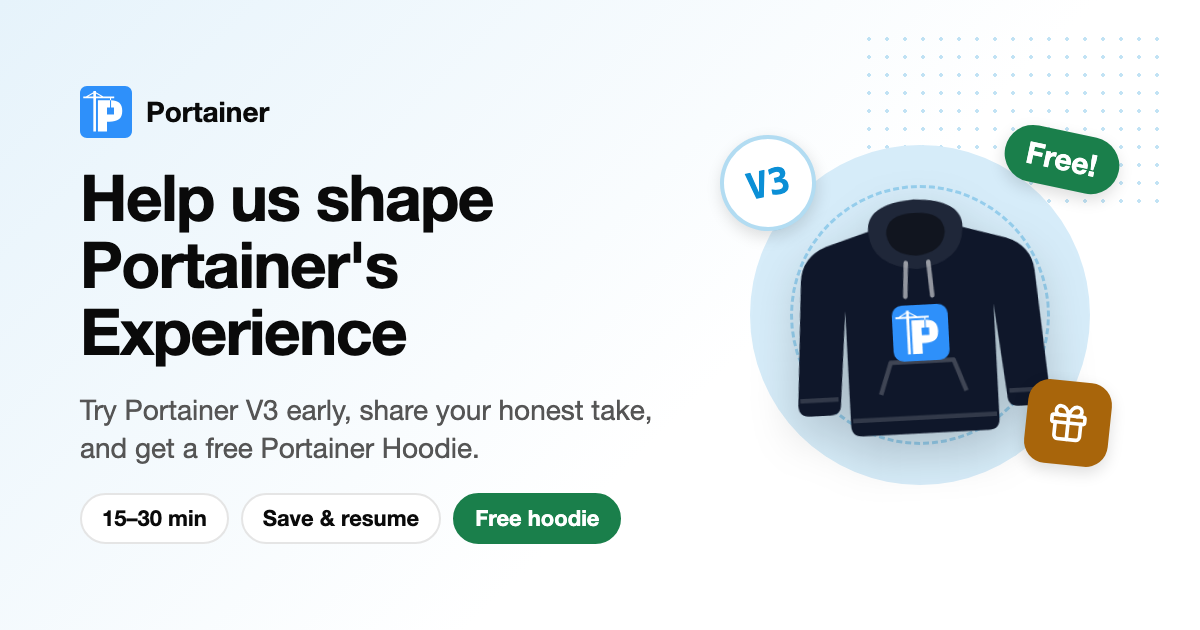
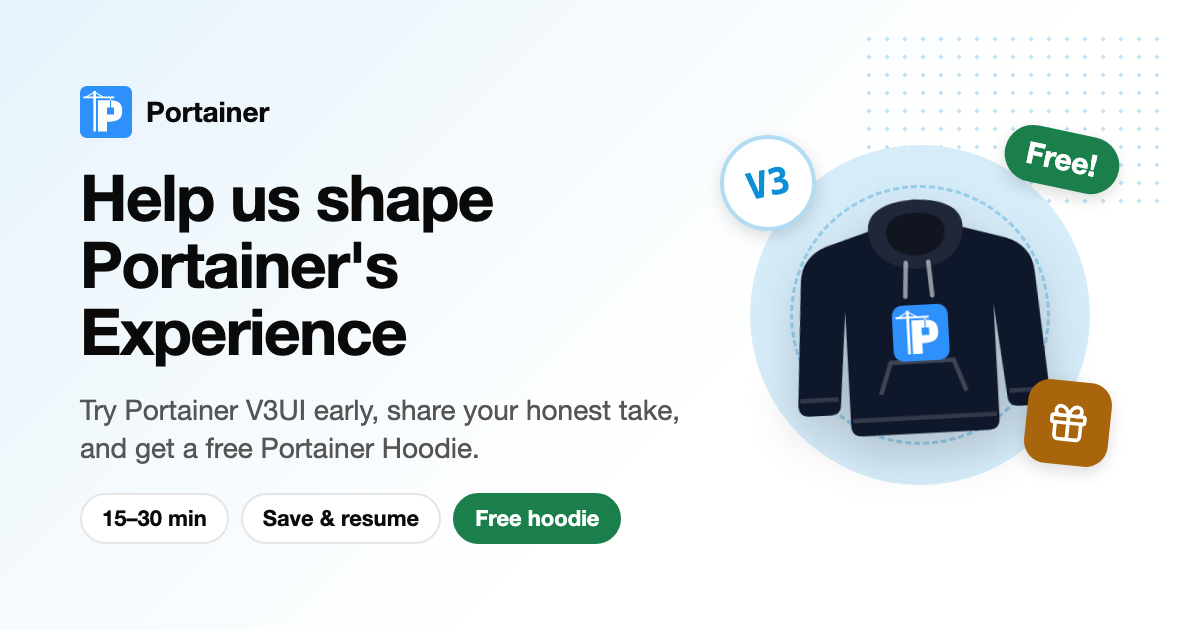
concept-test: Portainer new UI naming, 2–3 words for both groups, one-line titles

Changed region(s): [[0.2158, 0.6333, 0.555, 0.6937]]

diff --git a/local/portainer-run-applications/concept-testing-app/src/src/components/concept-test/steps.tsx b/local/portainer-run-applications/concept-testing-app/src/src/components/concept-test/steps.tsx
@@ -12,7 +12,7 @@ import { Input } from "@/components/ui/input";
 import { Select, SelectContent, SelectItem, SelectTrigger, SelectValue } from "@/components/ui/select";
 import { Textarea } from "@/components/ui/textarea";
 import {
-  FOLLOW_UP, FREQUENCY, NEG, NEG_MIN, PICK_MAX, PICK_MIN, POS, PREFERENCES, ROLE_OTHER, ROLES, SIZES, STEPS, STEP_COUNT, TASKS, TOOL_LEN, TOOLS_MAX, USAGE,
+  FOLLOW_UP, FREQUENCY, NEG, PICK_MAX, PICK_MIN, POS, PREFERENCES, ROLE_OTHER, ROLES, SIZES, STEPS, STEP_COUNT, TASKS, TOOL_LEN, TOOLS_MAX, USAGE,
   type Answers, type Errors, type State, type Swag, type WordKey,
 } from "@/lib/survey";
 import { cn } from "@/lib/utils";
@@ -44,7 +44,7 @@ function Head({ step, title, eyebrow, children }: { step?: number; title: ReactN
             {mins > 0 && <span className="inline-flex items-center gap-1 rounded-full bg-card px-2.5 py-1 text-muted-foreground ring-1 ring-border"><Clock className="size-3.5" />About {mins} min</span>}
             {eyebrow}
           </div>
-          <h1 className="text-[28px] leading-tight font-semibold tracking-tight text-balance sm:text-[34px]">{title}</h1>
+          <h1 className="text-[28px] leading-tight font-semibold tracking-tight text-balance sm:text-[30px]">{title}</h1>
           {children && <p className="max-w-[56ch] text-[15px] text-muted-foreground">{children}</p>}
         </div>
         <StepArt step={step === undefined ? STEP_COUNT : step - 1} />
@@ -60,7 +60,7 @@ const Cheer = ({ children }: { children: ReactNode }) => (
 
 const ic = "size-5";
 const FREQUENCY_ICONS = { Daily: <Sun className={ic} />, Weekly: <CalendarDays className={ic} />, Monthly: <CalendarRange className={ic} />, Rarely: <Snail className={ic} /> };
-const PREFERENCE_ICONS = { "Current Portainer": <History className={ic} />, "Portainer V3": <Sparkles className={ic} />, "No preference": <ScaleIcon className={ic} /> };
+const PREFERENCE_ICONS = { "Current Portainer UI": <History className={ic} />, "Portainer new UI": <Sparkles className={ic} />, "No preference": <ScaleIcon className={ic} /> };
 const FOLLOW_UP_ICONS = { "Yes, happy to chat": <MessageCircleHeart className={ic} />, "No thanks": <Hand className={ic} /> };
 // The hoodie grows with the size.
 const SIZE_ICONS = Object.fromEntries(SIZES.map((x, i) => [x, <Hoodie key={x} style={{ width: 14 + i * 2, height: 14 + i * 2 }} />]));
@@ -104,7 +104,7 @@ export function StepCurrent(p: StepProps) {
   const focusOther = useRef(false);
   return (
     <>
-      <Head step={1} title="How does Portainer feel today?" eyebrow={<Cheer>Nice to meet you!</Cheer>}>
+      <Head step={1} title="How does the current Portainer UI feel today?" eyebrow={<Cheer>Nice to meet you!</Cheer>}>
         Let&apos;s start with the Portainer you use today. There are no wrong answers, just your honest take.
       </Head>
       <Panel>
@@ -188,9 +188,9 @@ export function StepWords({ which, ...p }: StepProps & { which: WordKey }) {
             <span className="font-mono">{picked.length}/{PICK_MAX} picked</span>
           </span>
         </div>
-        {kind === "neg" && (
-          <p className="-mt-1 text-[13px] text-muted-foreground">Pick at least {NEG_MIN}. Every tool has rough edges, and knowing yours helps us the most.</p>
-        )}
+        <p className="-mt-1 text-[13px] text-muted-foreground">
+          Pick at least {PICK_MIN}. {kind === "pos" ? "Think about what works well for you, big or small." : "Every tool has rough edges, and knowing yours helps us the most."}
+        </p>
         <div role="group" aria-labelledby={`${key}-label`} className="flex flex-wrap gap-2.5">
           {list.map((x) => {
             const on = picked.includes(x);
@@ -204,8 +204,8 @@ export function StepWords({ which, ...p }: StepProps & { which: WordKey }) {
   const all = [...w.pos.map((x) => ["pos", x] as const), ...w.neg.map((x) => ["neg", x] as const)];
   return (
     <>
-      <Head step={before ? 2 : 4} title={before ? "Describe the current Portainer UI" : "Now describe the V3 UI"} eyebrow={<Cheer>{before ? "Quick one" : "Before vs after"}</Cheer>}>
-        Pick {PICK_MIN}–{PICK_MAX} positive words and {NEG_MIN}–{PICK_MAX} negative words that best describe {before ? "your experience with Portainer today" : "what you saw in the V3 demo"}. Then tell us why you picked each one.
+      <Head step={before ? 2 : 4} title={before ? "Describe the current Portainer UI" : "Now describe the new UI"} eyebrow={<Cheer>{before ? "Quick one" : "Before vs after"}</Cheer>}>
+        Pick {PICK_MIN}–{PICK_MAX} positive words and {PICK_MIN}–{PICK_MAX} negative words that best describe {before ? "your experience with Portainer today" : "what you saw in the V3 demo"}. Then tell us why you picked each one.
       </Head>
       <Panel>{group("pos", POS)}{group("neg", NEG)}</Panel>
       {all.length > 0 && (
@@ -240,7 +240,7 @@ export function StepDemo(p: StepProps) {
   const { s, set, errors: e, demoUrl, demoLogin } = p, a = s.a;
   return (
     <>
-      <Head step={3} title="Take Portainer V3 for a spin" eyebrow={<Cheer>The fun part</Cheer>}>
+      <Head step={3} title="Take Portainer new UI for a spin" eyebrow={<Cheer>The fun part</Cheer>}>
         Open the demo, look around, and see how the new UI compares to the Portainer you use today.
       </Head>
       <div data-field="openedDemo" className="flex flex-col gap-2">
@@ -248,7 +248,7 @@ export function StepDemo(p: StepProps) {
           <BrowserArt opened={s.openedDemo} />
           <div className="flex min-w-0 flex-col items-start gap-3">
             <div className="flex min-w-0 flex-col gap-1">
-              <b className="text-lg">Portainer V3 demo<span className="text-neg"> *</span></b>
+              <b className="text-lg">Portainer new UI demo<span className="text-neg"> *</span></b>
               <code className="font-mono text-[12.5px] break-all text-muted-foreground">{demoUrl.replace(/^https?:\/\//, "")}</code>
               {s.openedDemo && <span className="text-[13px] text-pos">Opened. Switch back to that tab any time.</span>}
             </div>
@@ -311,7 +311,7 @@ export function StepFinal(p: StepProps) {
         <Field name="preference" label="Which would you rather use day to day?" required error={e.preference}>
           <Chips name="preference" options={PREFERENCES} icons={PREFERENCE_ICONS} cols="grid-cols-3 sm:grid-cols-3" value={a.preference} invalid={!!e.preference} onChange={(v) => set((d) => { d.a.preference = v; }, true)} />
         </Field>
-        <Field name="nps" label="How likely are you to recommend Portainer V3 to a colleague?" required error={e.nps}>
+        <Field name="nps" label="How likely are you to recommend Portainer V3UI to a colleague?" required error={e.nps}>
           <Scale name="nps" from={0} to={10} value={a.nps} lo="Not at all likely" hi="Extremely likely" invalid={!!e.nps} tone={npsTone}
             onChange={(v) => set((d) => { d.a.nps = v; }, true)} />
           {a.nps !== null && (
@@ -394,7 +394,7 @@ export function StepDone({ s }: StepProps) {
       <div className="relative">
         <Confetti />
         <Head title={`Thank you${first ? `, ${first}` : ""}`} eyebrow={<Badge className="bg-pos text-white dark:text-background">Session complete</Badge>}>
-          Your feedback is in and so is your hoodie request. You&apos;ve helped shape what Portainer V3 becomes. The study closes on 18 December, and we&apos;ll start shipping hoodies after that. Until then, you can go back to any step to review or change an answer.
+          Your feedback is in and so is your hoodie request. You&apos;ve helped shape what Portainer V3UI becomes. The study closes on 18 December, and we&apos;ll start shipping hoodies after that. Until then, you can go back to any step to review or change an answer.
         </Head>
       </div>
       <Panel>

diff --git a/local/portainer-run-applications/concept-testing-app/src/src/lib/survey.ts b/local/portainer-run-applications/concept-testing-app/src/src/lib/survey.ts
@@ -3,9 +3,8 @@
 
 export const POS = ["Intuitive", "Clean", "Efficient", "Fast", "Organized", "Powerful", "Reliable", "Easy to use", "Modern", "Consistent", "Clear", "Flexible", "Polished", "Time-saving", "Trustworthy", "Approachable"];
 export const NEG = ["Cluttered", "Confusing", "Overwhelming", "Slow", "Outdated", "Complex", "Inconsistent", "Frustrating", "Hard to navigate", "Busy", "Rigid", "Tedious", "Hidden", "Too technical", "Fragmented", "Dense"];
-export const PICK_MIN = 1;
+export const PICK_MIN = 2;
 export const PICK_MAX = 3;
-export const NEG_MIN = 2;
 
 export const ROLE_OTHER = "Other (please specify)";
 export const ROLES = [
@@ -30,7 +29,11 @@ export const TASKS = [
   "Sort and filter a table", "Open your account preferences", "Switch between light and dark mode",
   "Move between sections using the sidebar", "Open a details page and its tabs", "Check the status badges and icons",
 ];
-export const PREFERENCES = ["Current Portainer", "Portainer V3", "No preference"];
+export const PREFERENCES = ["Current Portainer UI", "Portainer new UI", "No preference"];
+/** Earlier labels for the same choices, so saved answers still match. */
+const LEGACY_PREFERENCES: Record<string, string> = {
+  "Current Portainer": PREFERENCES[0], "Portainer V3": PREFERENCES[1], "Portainer-Ops V3UI": PREFERENCES[1], "Portainer-Ops new UI": PREFERENCES[1],
+};
 export const FOLLOW_UP = ["Yes, happy to chat", "No thanks"];
 export const SIZES = ["XS", "S", "M", "L", "XL", "2XL", "3XL"];
 export const TOOLS_MAX = 20;
@@ -40,7 +43,7 @@ export const STEPS = [
   { key: "current", title: "Current Portainer", sub: "How it feels today", mins: 3 },
   { key: "wordsBefore", title: "Pick words", sub: "Current UI", mins: 2 },
   { key: "demo", title: "Explore V3", sub: "Open the demo", mins: 10 },
-  { key: "wordsAfter", title: "Pick words", sub: "V3 UI", mins: 2 },
+  { key: "wordsAfter", title: "Pick words", sub: "Portainer UI", mins: 2 },
   { key: "final", title: "Final thoughts", sub: "Anything else", mins: 2 },
   { key: "swag", title: "Claim your hoodie", sub: "Shipping details", mins: 1 },
 ] as const;
@@ -132,7 +135,7 @@ export function sanitize(input: unknown): State {
       wordsBefore: words(a.wordsBefore),
       demoTasks: pick(a.demoTasks, TASKS), demoNotes: str(a.demoNotes),
       wordsAfter: words(a.wordsAfter),
-      preference: oneOf(a.preference, PREFERENCES), nps: intIn(a.nps, 0, 10), finalNotes: str(a.finalNotes), followUp: oneOf(a.followUp, FOLLOW_UP),
+      preference: oneOf(LEGACY_PREFERENCES[String(a.preference)] ?? a.preference, PREFERENCES), nps: intIn(a.nps, 0, 10), finalNotes: str(a.finalNotes), followUp: oneOf(a.followUp, FOLLOW_UP),
       swag: {
         name: str(sw.name, 200), email: str(sw.email, 200), company: str(sw.company, 200), address: str(sw.address, 500),
         city: str(sw.city, 200), postcode: str(sw.postcode, 40), country: str(sw.country, 200), size: oneOf(sw.size, SIZES), consent: sw.consent === true,
@@ -202,8 +205,8 @@ function validCurrent(s: State): Errors {
 /** Positive words are required; negative words are optional (some people have none). */
 function validWords(s: State, which: WordKey): Errors {
   const w = s.a[which], e: Errors = {};
-  if (w.pos.length < PICK_MIN) e[`${which}.pos`] = "Pick at least one positive word.";
-  if (w.neg.length < NEG_MIN) e[`${which}.neg`] = `Pick at least ${NEG_MIN} negative words. Even small annoyances count.`;
+  if (w.pos.length < PICK_MIN) e[`${which}.pos`] = `Pick at least ${PICK_MIN} positive words. Even small wins count.`;
+  if (w.neg.length < PICK_MIN) e[`${which}.neg`] = `Pick at least ${PICK_MIN} negative words. Even small annoyances count.`;
   for (const x of [...w.pos, ...w.neg]) if (!(w.why[x] || "").trim()) e[`${which}.why.${x}`] = "Add a short reason for this word.";
   return e;
 }

diff --git a/local/portainer-run-applications/concept-testing-app/src/src/components/concept-test/concept-test.tsx b/local/portainer-run-applications/concept-testing-app/src/src/components/concept-test/concept-test.tsx
@@ -2,7 +2,7 @@
 
 import { useCallback, useEffect, useLayoutEffect, useRef, useState } from "react";
 import Image from "next/image";
-import { Check, Clock, Compass, Copy, Gift, Loader2, MessageSquareText, PartyPopper, Save } from "lucide-react";
+import { Check, Compass, Copy, Gift, Loader2, MessageSquareText, PartyPopper, Save } from "lucide-react";
 import { Button } from "@/components/ui/button";
 import { Input } from "@/components/ui/input";
 import { Progress } from "@/components/ui/progress";
@@ -208,7 +208,7 @@ export function ConceptTest() {
     <div className="grid min-h-dvh grid-cols-[minmax(0,1fr)] md:grid-cols-[280px_minmax(0,1fr)]">
       <Sidebar s={s} id={session.id} status={status} onGo={goTo} />
       <main className="min-w-0 px-4 pt-7 pb-12 md:pt-10 md:pb-16">
-        <div key={step} className="mx-auto flex max-w-[760px] flex-col gap-6">
+        <div key={step} className="mx-auto flex max-w-[900px] flex-col gap-6">
           {notice && <p role="status" className="rounded-lg border border-border bg-muted px-4 py-3 text-[13px]">{notice}</p>}
           {cheered === step - 1 && (
             <p role="status" className="flex items-center gap-2.5 self-start rounded-full bg-pos-soft py-2 pr-4 pl-2.5 text-[14px] font-medium text-pos motion-safe:animate-pop">
@@ -245,7 +245,7 @@ export function ConceptTest() {
 
 const INTRO_STEPS = [
   { icon: MessageSquareText, text: "Tell us how Portainer feels today" },
-  { icon: Compass, text: "Take the V3 demo for a spin" },
+  { icon: Compass, text: "Take the new UI demo for a spin" },
   { icon: Gift, text: "Claim your free hoodie" },
 ];
 
@@ -260,7 +260,7 @@ function Intro({ email, error, notice, checking, onChange, onBlur, onContinue }:
         <div className="flex max-w-[calc(100vw-2rem)] flex-col gap-3 sm:w-[640px]">
           <h1 className="text-[30px] leading-tight font-semibold tracking-tight text-balance sm:text-[34px] sm:whitespace-nowrap">Help us shape Portainer&apos;s Experience</h1>
           <p className="text-[16px] text-muted-foreground text-pretty">
-            Be one of the first to try Portainer V3 and tell us what you really think. As a thank-you, we&apos;ll send you a Portainer Hoodie.
+            Be one of the first to try Portainer new UI and tell us what you really think. As a thank-you, we&apos;ll send you a Portainer Hoodie.
           </p>
         </div>
         <ol className="grid w-full max-w-[calc(100vw-2rem)] gap-2 sm:w-[680px] sm:grid-cols-3">
@@ -285,7 +285,6 @@ function Intro({ email, error, notice, checking, onChange, onBlur, onContinue }:
           {checking ? <><Loader2 className="size-4 animate-spin" />Checking…</> : <>Let&apos;s start →</>}
         </Button>
         <p className="flex flex-wrap items-center justify-center gap-x-4 gap-y-1 text-[13px] text-muted-foreground">
-          <span className="inline-flex items-center gap-1.5"><Clock className="size-3.5" />15–30 minutes</span>
           <span className="inline-flex items-center gap-1.5"><Save className="size-3.5" />Pause any time: we save as you go</span>
         </p>
       </form>
@@ -300,7 +299,7 @@ function Sidebar({ s, id, status, onGo }: { s: State; id: string; status: SaveSt
       <div className="flex items-center gap-2.5">
         <Image src="/logo/portainer.svg" alt="" width={32} height={32} unoptimized className="size-8" />
         <div className="leading-tight">
-          <b className="block text-sm">Portainer V3</b>
+          <b className="block text-sm">Portainer UI Test</b>
           <span className="text-xs text-muted-foreground">Concept test · self-paced</span>
         </div>
       </div>

diff --git a/local/portainer-run-applications/concept-testing-app/src/src/app/admin/(panel)/layout.tsx b/local/portainer-run-applications/concept-testing-app/src/src/app/admin/(panel)/layout.tsx
@@ -4,7 +4,7 @@ import { Download, LogOut } from "lucide-react";
 import { Button } from "@/components/ui/button";
 import { signOut } from "../actions";
 
-export const metadata: Metadata = { title: "Responses · Portainer V3 Concept Test", robots: { index: false } };
+export const metadata: Metadata = { title: "Responses · Portainer V3UI Concept Test", robots: { index: false } };
 
 export default function AdminLayout({ children }: LayoutProps<"/admin">) {
   return (
@@ -14,7 +14,7 @@ export default function AdminLayout({ children }: LayoutProps<"/admin">) {
           <Link href="/admin" className="flex items-center gap-2.5">
             <div aria-hidden className="grid size-7 place-items-center rounded-md bg-brand text-[13px] font-bold text-brand-foreground">P</div>
             <div className="leading-tight">
-              <b className="block text-sm">Portainer V3 concept test</b>
+              <b className="block text-sm">Portainer V3UI concept test</b>
               <span className="text-xs text-muted-foreground">Researcher view</span>
             </div>
           </Link>

diff --git a/local/portainer-run-applications/concept-testing-app/src/src/app/layout.tsx b/local/portainer-run-applications/concept-testing-app/src/src/app/layout.tsx
@@ -17,7 +17,7 @@ const geistMono = Geist_Mono({
 
 const title = "Help us shape Portainer's Experience";
 const description =
-  "Try Portainer V3 early and tell us what you really think. It takes 15–30 minutes, saves as you go, and every finisher gets a free Portainer Hoodie.";
+  "Try Portainer V3UI early and tell us what you really think. It takes 15–30 minutes, saves as you go, and every finisher gets a free Portainer Hoodie.";
 
 // Link previews (Slack, LinkedIn, X, iMessage…) use these. The share image is opengraph-image.png / twitter-image.png.
 export async function generateMetadata(): Promise<Metadata> {
@@ -25,10 +25,10 @@ export async function generateMetadata(): Promise<Metadata> {
     metadataBase: new URL(await siteUrl()),
     title,
     description,
-    applicationName: "Portainer V3 Concept Test",
+    applicationName: "Portainer V3UI Concept Test",
     keywords: [
       "Portainer",
-      "Portainer V3",
+      "Portainer V3UI",
       "user research",
       "concept test",
       "Kubernetes",

diff --git a/local/portainer-run-applications/concept-testing-app/src/src/app/admin/login/sign-in-form.tsx b/local/portainer-run-applications/concept-testing-app/src/src/app/admin/login/sign-in-form.tsx
@@ -20,7 +20,7 @@ export function SignInForm() {
       <Image src="/logo/portainer.svg" alt="Portainer" width={56} height={56} unoptimized priority className="size-14" />
       <div className="flex flex-col gap-3">
         <h1 className="text-[30px] leading-tight font-semibold tracking-tight text-balance sm:text-[34px]">Researcher sign in</h1>
-        <p className="text-[16px] text-muted-foreground text-pretty">See the responses and feedback from the Portainer V3 concept test.</p>
+        <p className="text-[16px] text-muted-foreground text-pretty">See the responses and feedback from the Portainer V3UI concept test.</p>
       </div>
       <Suspense><NextPath /></Suspense>
       <div className="flex w-full flex-col gap-4 text-left">

diff --git a/local/portainer-run-applications/concept-testing-app/src/src/app/page.tsx b/local/portainer-run-applications/concept-testing-app/src/src/app/page.tsx
@@ -7,7 +7,7 @@ export default function Home() {
       <noscript>
         <main style={{ maxWidth: 640, margin: "80px auto", padding: "0 16px", textAlign: "center", fontFamily: "system-ui, sans-serif" }}>
           <h1>Help us shape Portainer&apos;s Experience</h1>
-          <p>Try Portainer V3 early and tell us what you really think. It takes 15–30 minutes, saves as you go, and every finisher gets a free Portainer Hoodie.</p>
+          <p>Try Portainer V3UI early and tell us what you really think. It takes 15–30 minutes, saves as you go, and every finisher gets a free Portainer Hoodie.</p>
           <p>Please turn on JavaScript to take part.</p>
         </main>
       </noscript>

diff --git a/local/portainer-run-applications/concept-testing-app/src/src/lib/report.ts b/local/portainer-run-applications/concept-testing-app/src/src/lib/report.ts
@@ -10,8 +10,8 @@ export function summary(rows: ResponseRow[]) {
     completed: rows.filter((r) => r.submittedAt).length,
     avgSatisfaction: sats.length ? (sats.reduce((a, b) => a + b, 0) / sats.length).toFixed(1) : "–",
     satisfactionN: sats.length,
-    preferV3: pref("Portainer V3"),
-    preferCurrent: pref("Current Portainer"),
+    preferV3: pref("Portainer new UI"),
+    preferCurrent: pref("Current Portainer UI"),
     noPreference: pref("No preference"),
   };
 }

diff --git a/local/portainer-run-applications/concept-testing-app/src/src/app/admin/login/page.tsx b/local/portainer-run-applications/concept-testing-app/src/src/app/admin/login/page.tsx
@@ -1,7 +1,7 @@
 import type { Metadata } from "next";
 import { SignInForm } from "./sign-in-form";
 
-export const metadata: Metadata = { title: "Researcher sign in · Portainer V3 Concept Test", robots: { index: false } };
+export const metadata: Metadata = { title: "Researcher sign in · Portainer V3UI Concept Test", robots: { index: false } };
 
 export default function AdminLoginPage() {
   return (
